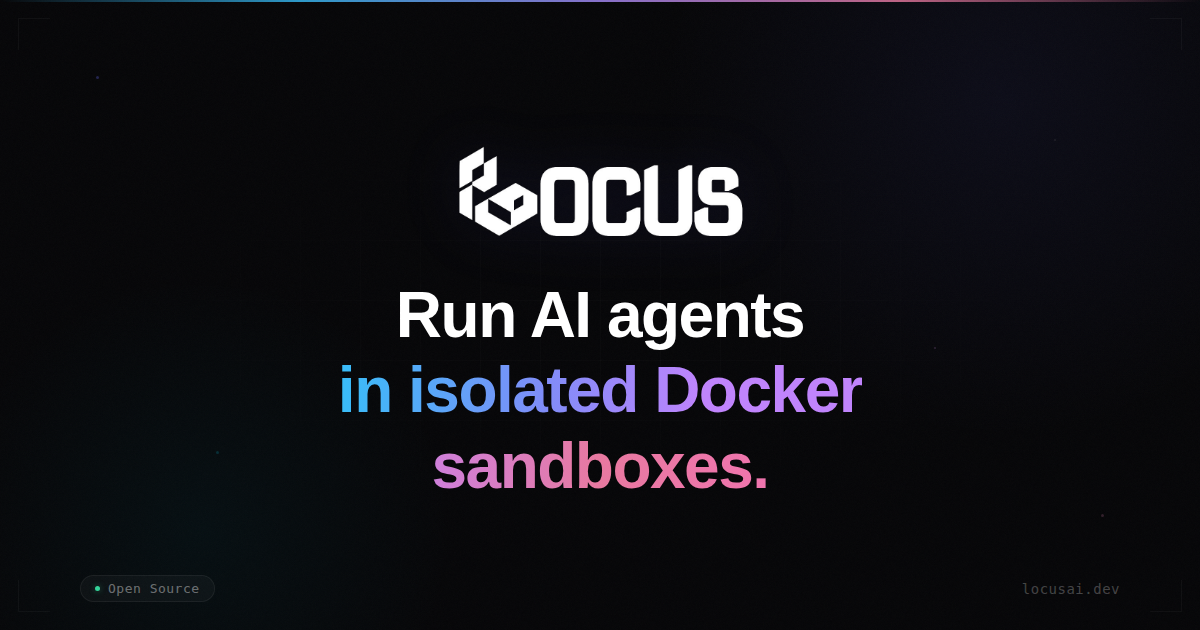
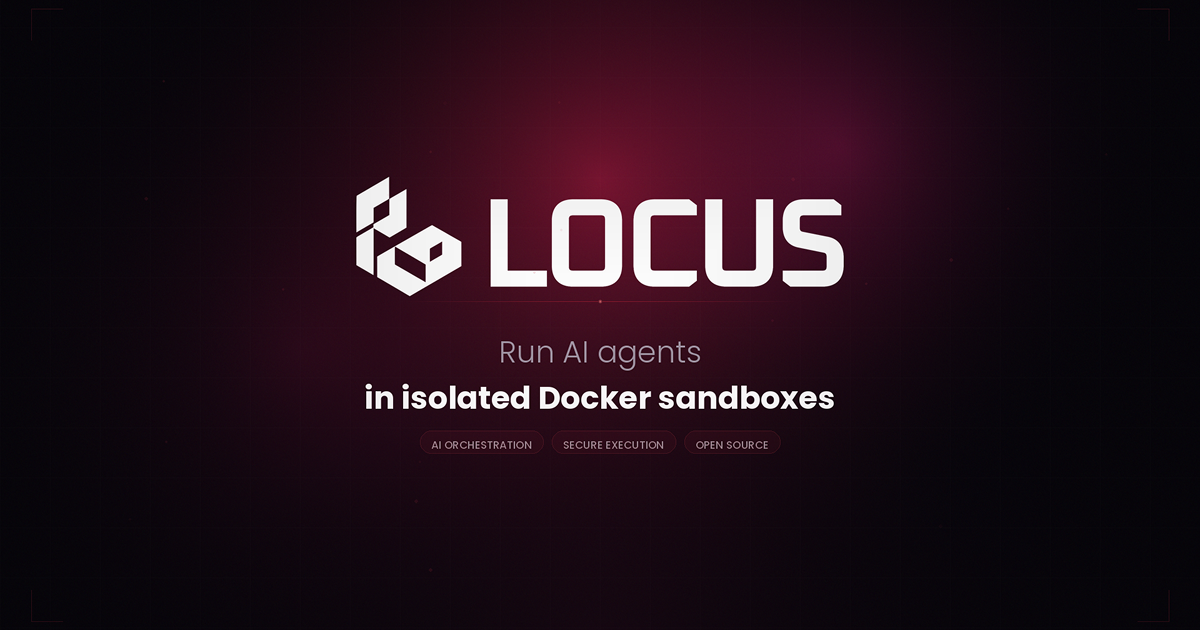
feat: centralize sandbox binary overrides and improve telegram action flow
Add SANDBOX_BINARY_OVERRIDES config for biome, esbuild, and turbo to
resolve cross-platform binary conflicts in sandboxes. Refactor telegram
callbacks to pass dynamic plan IDs and sprint names, add sprint
activation and run start flows, and update logo assets.

diff --git a/packages/telegram/src/commands/locus.ts b/packages/telegram/src/commands/locus.ts
@@ -24,6 +24,8 @@ import {
   planKeyboard,
   reviewKeyboard,
   runCompleteKeyboard,
+  runKeyboard,
+  sprintActiveKeyboard,
   statusKeyboard,
 } from "../ui/keyboards.js";
 import { reviewStartedMessage, runStartedMessage } from "../ui/messages.js";
@@ -82,7 +84,7 @@ export async function handleLocusCommand(
   if (isStreaming) {
     await handleStreamingCommand(ctx, displayCmd, fullArgs, command, args);
   } else {
-    await handleBufferedCommand(ctx, displayCmd, fullArgs, command);
+    await handleBufferedCommand(ctx, displayCmd, fullArgs, command, args);
   }
 }
 
@@ -158,7 +160,12 @@ async function handleStreamingCommand(
       }
 
       // Send keyboard for post-command actions
-      const keyboard = getPostCommandKeyboard(command, args, exitCode ?? 0);
+      const keyboard = getPostCommandKeyboard(
+        command,
+        args,
+        exitCode ?? 0,
+        output
+      );
       if (keyboard) {
         await ctx.reply(
           exitCode === 0
@@ -180,13 +187,14 @@ async function handleBufferedCommand(
   ctx: Context,
   displayCmd: string,
   fullArgs: string[],
-  command: string
+  command: string,
+  args: string[]
 ): Promise<void> {
   const chatId = ctx.chat?.id;
   if (!chatId) return;
   const sessionId = String(chatId);
   const child = invokeLocusStream(fullArgs);
-  const trackingId = commandTracker.track(sessionId, command, [], child);
+  const trackingId = commandTracker.track(sessionId, command, args, child);
   let output = "";
 
   child.stdout?.on("data", (chunk: Buffer) => {
@@ -202,7 +210,12 @@ async function handleBufferedCommand(
       commandTracker.untrack(sessionId, trackingId);
       const result = formatCommandResult(displayCmd, output, exitCode ?? 0);
 
-      const keyboard = getPostCommandKeyboard(command, [], exitCode ?? 0);
+      const keyboard = getPostCommandKeyboard(
+        command,
+        args,
+        exitCode ?? 0,
+        output
+      );
       await ctx.reply(result, {
         parse_mode: "HTML",
         reply_markup: keyboard ?? undefined,
@@ -215,16 +228,56 @@ async function handleBufferedCommand(
 
 // ─── Post-Command Keyboards ────────────────────────────────────────────────
 
+/** Strip ANSI escape codes from a string. */
+function stripAnsi(text: string): string {
+  // biome-ignore lint/suspicious/noControlCharactersInRegex: ANSI escape codes require control characters
+  return text.replace(/\x1B\[[0-9;]*m/g, "");
+}
+
+/** Extract plan ID from CLI output (matches "Plan saved: <id>"). */
+function extractPlanId(output: string): string | null {
+  const clean = stripAnsi(output);
+  const match = clean.match(/Plan saved:\s*(\S+)/);
+  return match?.[1] ?? null;
+}
+
+/** Extract sprint name from CLI output (matches "Sprint: <name>"). */
+function extractSprintName(output: string): string | null {
+  const clean = stripAnsi(output);
+  const match = clean.match(/Sprint:\s*(.+?)$/m);
+  return match?.[1]?.trim() ?? null;
+}
+
 function getPostCommandKeyboard(
   command: string,
   args: string[],
-  exitCode: number
+  exitCode: number,
+  output = ""
 ) {
   if (exitCode !== 0) return null;
 
   switch (command) {
-    case "plan":
-      return planKeyboard();
+    case "plan": {
+      // After plan approve → show sprint active or run keyboard
+      if (args[0] === "approve") {
+        const sprint = extractSprintName(output);
+        if (sprint) return sprintActiveKeyboard(sprint);
+        return runKeyboard();
+      }
+      // After plan creation → show approve/reject with plan ID
+      if (args[0] !== "list" && args[0] !== "show") {
+        const planId = extractPlanId(output);
+        if (planId) return planKeyboard(planId);
+      }
+      return null;
+    }
+    case "sprint": {
+      // After sprint active → show run keyboard
+      if (args[0] === "active" && args.length > 1) {
+        return runKeyboard();
+      }
+      return null;
+    }
     case "review":
       if (args.length > 0) {
         return reviewKeyboard(Number(args[0]));

diff --git a/packages/cli/src/core/sandbox.ts b/packages/cli/src/core/sandbox.ts
@@ -23,6 +23,53 @@ import { getLogger } from "./logger.js";
 export const SANDBOX_DEPS_DIR = "/tmp/sandbox-deps";
 
 /**
+ * Native binary overrides for tools whose Node.js wrappers use
+ * require.resolve() to locate platform-specific binaries.
+ *
+ * When the host (macOS) bind-mounts node_modules into the Linux sandbox,
+ * require.resolve() finds the macOS binary from the .bun/ cache → SIGILL.
+ * These env vars tell each wrapper to use the Linux binary from sandbox-deps.
+ *
+ * Each entry: [envVar, [...candidatePaths relative to SANDBOX_DEPS_DIR]]
+ */
+export const SANDBOX_BINARY_OVERRIDES: [string, string[]][] = [
+  [
+    "BIOME_BINARY",
+    [
+      "node_modules/@biomejs/cli-linux-arm64/biome",
+      "node_modules/@biomejs/cli-linux-x64/biome",
+    ],
+  ],
+  [
+    "ESBUILD_BINARY_PATH",
+    [
+      "node_modules/@esbuild/linux-arm64/bin/esbuild",
+      "node_modules/@esbuild/linux-x64/bin/esbuild",
+    ],
+  ],
+  [
+    "TURBO_BINARY_PATH",
+    [
+      "node_modules/turbo-linux-arm64/bin/turbo",
+      "node_modules/turbo-linux-64/bin/turbo",
+    ],
+  ],
+];
+
+/**
+ * Generate shell snippet that probes and exports all binary overrides.
+ * For each entry, tries candidates in order and exports the first executable found.
+ */
+export function buildBinaryOverrideSnippet(): string {
+  return SANDBOX_BINARY_OVERRIDES.map(([envVar, candidates]) => {
+    const paths = candidates
+      .map((p) => `"${SANDBOX_DEPS_DIR}/${p}"`)
+      .join(" ");
+    return `for _b in ${paths}; do [ -x "$_b" ] && ${envVar}="$_b" && export ${envVar} && break; done;`;
+  }).join(" ");
+}
+
+/**
  * Build a shell wrapper that sets up PATH and NODE_PATH for sandbox deps,
  * then exec's the original command. Used with:
  *   sh -c '<wrapper>' _ <command> <args...>
@@ -38,6 +85,9 @@ export function buildSandboxEnvWrapper(workdir: string): string {
     SANDBOX_DEPS_DIR +
     // biome-ignore lint/suspicious/noTemplateCurlyInString: We need a right formatting here
     '/node_modules${NODE_PATH:+:$NODE_PATH}"; export NODE_PATH; ' +
+    // Probe and export all native binary overrides (biome, esbuild, turbo)
+    buildBinaryOverrideSnippet() +
+    " " +
     'exec "$@"'
   );
 }

diff --git a/packages/telegram/src/bot.ts b/packages/telegram/src/bot.ts
@@ -154,14 +154,11 @@ export function createBot(config: TelegramConfig): Bot {
 
 function registerCallbackHandlers(bot: Bot): void {
   // Plan callbacks
-  bot.callbackQuery(CB.APPROVE_PLAN, async (ctx) => {
-    await ctx.answerCallbackQuery({ text: "Plan approved!" });
+  bot.callbackQuery(/^plan:approve:(.+)$/, async (ctx) => {
+    const planId = ctx.match[1];
+    await ctx.answerCallbackQuery({ text: "Approving plan..." });
     await ctx.editMessageReplyMarkup({ reply_markup: undefined });
-    await ctx.reply(formatSuccess("Plan approved. Starting execution..."), {
-      parse_mode: "HTML",
-    });
-    // Trigger the run
-    await handleLocusCommand(ctx, "run", []);
+    await handleLocusCommand(ctx, "plan", ["approve", planId]);
   });
 
   bot.callbackQuery(CB.REJECT_PLAN, async (ctx) => {
@@ -172,9 +169,19 @@ function registerCallbackHandlers(bot: Bot): void {
     });
   });
 
-  bot.callbackQuery(CB.SHOW_PLAN_DETAILS, async (ctx) => {
-    await ctx.answerCallbackQuery();
-    await handleLocusCommand(ctx, "plan", ["list"]);
+  // Sprint active callback
+  bot.callbackQuery(/^sprint:active:(.+)$/, async (ctx) => {
+    const sprintName = ctx.match[1];
+    await ctx.answerCallbackQuery({ text: "Activating sprint..." });
+    await ctx.editMessageReplyMarkup({ reply_markup: undefined });
+    await handleLocusCommand(ctx, "sprint", ["active", sprintName]);
+  });
+
+  // Run callback
+  bot.callbackQuery(CB.RUN_START, async (ctx) => {
+    await ctx.answerCallbackQuery({ text: "Starting run..." });
+    await ctx.editMessageReplyMarkup({ reply_markup: undefined });
+    await handleLocusCommand(ctx, "run", []);
   });
 
   // Run callbacks
@@ -202,9 +209,12 @@ function registerCallbackHandlers(bot: Bot): void {
         parse_mode: "HTML",
       });
     } catch (error: unknown) {
-      await ctx.reply(formatError(`Failed to approve PR #${pr}`, String(error)), {
-        parse_mode: "HTML",
-      });
+      await ctx.reply(
+        formatError(`Failed to approve PR #${pr}`, String(error)),
+        {
+          parse_mode: "HTML",
+        }
+      );
     }
   });
 

diff --git a/packages/telegram/src/ui/keyboards.ts b/packages/telegram/src/ui/keyboards.ts
@@ -10,9 +10,10 @@ import { InlineKeyboard } from "grammy";
 // ─── Callback Data Prefixes ─────────────────────────────────────────────────
 
 export const CB = {
-  APPROVE_PLAN: "plan:approve",
+  APPROVE_PLAN: "plan:approve:",
   REJECT_PLAN: "plan:reject",
-  SHOW_PLAN_DETAILS: "plan:details",
+  SPRINT_ACTIVE: "sprint:active:",
+  RUN_START: "run:start",
   CONFIRM_ACTION: "confirm:yes",
   CANCEL_ACTION: "confirm:no",
   VIEW_PR: "pr:view:",
@@ -31,12 +32,23 @@ export const CB = {
 // ─── Keyboard Builders ──────────────────────────────────────────────────────
 
 /** Keyboard shown after plan creation. */
-export function planKeyboard(): InlineKeyboard {
+export function planKeyboard(planId: string): InlineKeyboard {
   return new InlineKeyboard()
-    .text("✅ Approve Plan", CB.APPROVE_PLAN)
-    .text("❌ Reject Plan", CB.REJECT_PLAN)
-    .row()
-    .text("📋 Show Details", CB.SHOW_PLAN_DETAILS);
+    .text("✅ Approve Plan", `${CB.APPROVE_PLAN}${planId}`)
+    .text("❌ Reject Plan", CB.REJECT_PLAN);
+}
+
+/** Keyboard shown after plan approval with a sprint. */
+export function sprintActiveKeyboard(sprintName: string): InlineKeyboard {
+  return new InlineKeyboard().text(
+    "🚀 Activate Sprint",
+    `${CB.SPRINT_ACTIVE}${sprintName}`
+  );
+}
+
+/** Simple run keyboard. */
+export function runKeyboard(): InlineKeyboard {
+  return new InlineKeyboard().text("🚀 Run", CB.RUN_START);
 }
 
 /** Keyboard shown after a run completes. */

diff --git a/packages/cli/src/commands/sandbox.ts b/packages/cli/src/commands/sandbox.ts
@@ -29,6 +29,7 @@ import {
   getProviderSandboxName,
   probeSymlinkSupport,
   SANDBOX_DEPS_DIR,
+  SANDBOX_BINARY_OVERRIDES,
 } from "../core/sandbox.js";
 import {
   backupIgnoredFiles,
@@ -629,6 +630,15 @@ async function handleShell(projectRoot: string, args: string[]): Promise<void> {
       // biome-ignore lint/suspicious/noTemplateCurlyInString: We need a right formatting here
       '/node_modules${NODE_PATH:+:$NODE_PATH}"',
     `export NODE_PATH`,
+    // Probe and export native binary overrides (biome, esbuild, turbo, etc.)
+    // so Node.js wrappers use the Linux binary from sandbox-deps instead of
+    // the macOS binary from the host's bind-mounted node_modules/.bun/ cache.
+    ...SANDBOX_BINARY_OVERRIDES.map(([envVar, candidates]) => {
+      const paths = candidates
+        .map((p) => `"${SANDBOX_DEPS_DIR}/${p}"`)
+        .join(" ");
+      return `for _b in ${paths}; do [ -x "$_b" ] && export ${envVar}="$_b" && break; done`;
+    }),
     // Source user-defined sandbox profile if present (for custom env vars, aliases, etc.)
     `[ -f "${workdir}/.locus/sandbox-profile.sh" ] && . "${workdir}/.locus/sandbox-profile.sh"`,
     `exec sh`,

diff --git a/.locus/LEARNINGS.md b/.locus/LEARNINGS.md
@@ -31,3 +31,4 @@ It is read by AI agents before every task to avoid repeating mistakes and to fol
 - **[Architecture]**: Sandbox dependencies install to `/opt/sandbox-deps/` (container-local filesystem), NOT the bind-mounted `node_modules/`. This prevents cross-platform binary conflicts — the host (macOS) keeps its darwin binaries, the sandbox (Linux) gets linux binaries separately. PATH and NODE_PATH are set via `buildSandboxEnvWrapper()` in both the shell (`handleShell`) and agent runners (`SandboxedClaudeRunner`/`SandboxedCodexRunner`). The constant `SANDBOX_DEPS_DIR` is in `packages/cli/src/core/sandbox.ts`.
 - **[Debugging]**: Biome's Node.js wrapper (`@biomejs/biome/bin/biome`) silently swallows SIGILL crashes: when `spawnSync` returns `status: null, signal: 'SIGILL'`, the wrapper sets `process.exitCode = null` (→ exit 0) and never reports the error. Always check `result.signal` when diagnosing silent biome failures. `biome --version` may work while `biome lint` crashes because `--version` uses a simpler code path.
 - **[Architecture]**: Bun's module resolution uses `.bun/node_modules/` (a flat symlink directory inside `node_modules/.bun/`) for cross-package resolution. Node.js's `require.resolve` works from within the `.bun/` cache context (via realpath) but NOT from the top-level `node_modules/@scope/` symlinks. Platform-specific optional deps (biome, esbuild) are only symlinked in `.bun/node_modules/`, not at the top level.
+- **[Architecture]**: Sandbox native binary overrides are centralized in `SANDBOX_BINARY_OVERRIDES` (sandbox.ts core). Tools whose Node.js wrappers use `require.resolve()` to find platform-specific binaries (biome→`BIOME_BINARY`, esbuild→`ESBUILD_BINARY_PATH`, turbo→`TURBO_BINARY_PATH`) need env var overrides to point at the Linux binary in sandbox-deps. Node.js addon-based tools (@swc/core, lightningcss) don't need this because `require()` handles incompatibility more gracefully. To add a new tool, append to the `SANDBOX_BINARY_OVERRIDES` array — both `buildSandboxEnvWrapper()` and `handleShell()` use it automatically.
